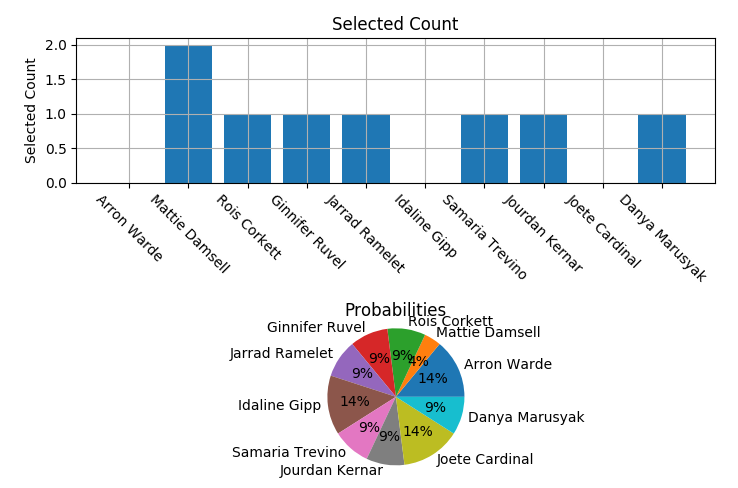
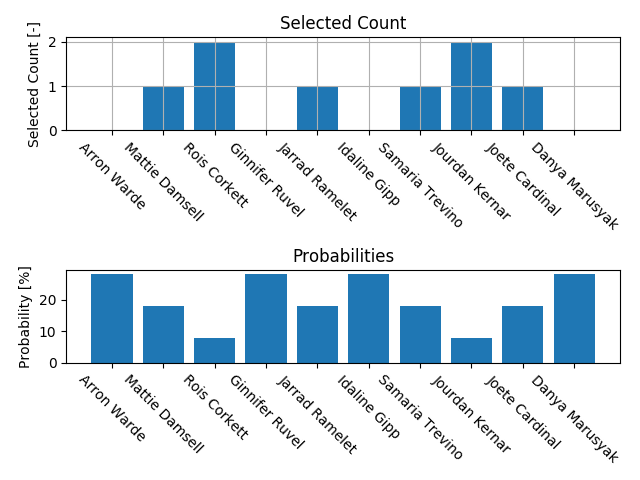
PR edit - Plot and readme edited.

diff --git a/vyvolavac/Vyvolavac.py b/vyvolavac/Vyvolavac.py
@@ -10,7 +10,6 @@ __maintainer__ = "Dagy Tran"
 __version__ = "0.1 beta"
 __status__ = "Development"
 
-
 import sys
 from random import randint
 import matplotlib.pyplot as plt
@@ -49,21 +48,21 @@ def save_statistics(output_path, stats_dictionary):
         output_file.write('\n'.join(lines))
 
 
-def redistribute(stats_dictionary, key):
+def redistribute(stats_dictionary, selected_student):
     new_stats = {}
     number_of_students = len(stats_dictionary)
-    if key not in stats_dictionary:
-        print('Error: User not in dictionary.')
+    if selected_student not in stats_dictionary:
+        print('Error: User not in dictionary.', file=sys.stderr)
         return stats_dictionary
 
-    student_points = stats_dictionary[key][1]
+    student_points = stats_dictionary[selected_student][1]
     if student_points < number_of_students - 1:
-        print('Warning: User {} has not enough points to redistribute. Points {}. Returning unchanged stats'.format(key,
-                                                                                                                    student_points))
-        return stats_dictionary
+        print('Warning: User {} has not enough points to redistribute. Points {}.'.format(selected_student,
+                                                                                          student_points))
+        return redistribute(stats_dictionary, selected_student)
     else:
         for k, (count, points) in stats_dictionary.items():
-            if k != key:
+            if k != selected_student:
                 new_stats[k] = (count, points + 1)
             else:
                 new_stats[k] = (count + 1, points - (number_of_students - 1))
@@ -100,17 +99,19 @@ def plot_stats(stats):
 
     plt.figure(1)
     plt.subplot(211)
-    plt.bar([i for i in range(len(stats))], counts, tick_label=keys)
+    plt.bar(keys, counts)
     plt.xticks([i for i in range(len(stats))], keys, rotation=-45)
     plt.grid()
-    plt.ylabel("Selected Count")
+    plt.ylabel("Selected Count [-]")
     plt.title("Selected Count")
 
+    points_sum = float(sum(points))
     plt.subplot(212)
-    plt.pie(points, labels=keys, autopct='%1.0f%%')
+    plt.bar(keys, list(map(lambda x: 2 * float(x) * 100 / points_sum, points)))
+    plt.xticks([i for i in range(len(stats))], keys, rotation=-45)
     plt.title("Probabilities")
+    plt.ylabel("Probability [%]")
     plt.tight_layout()
-    plt.axis('equal')
     plt.show()
 
 
